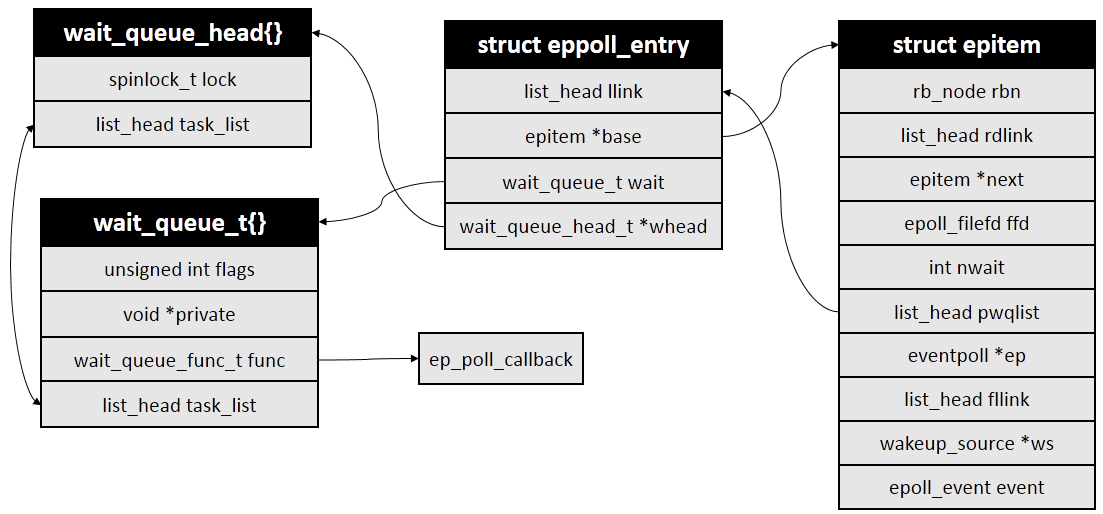
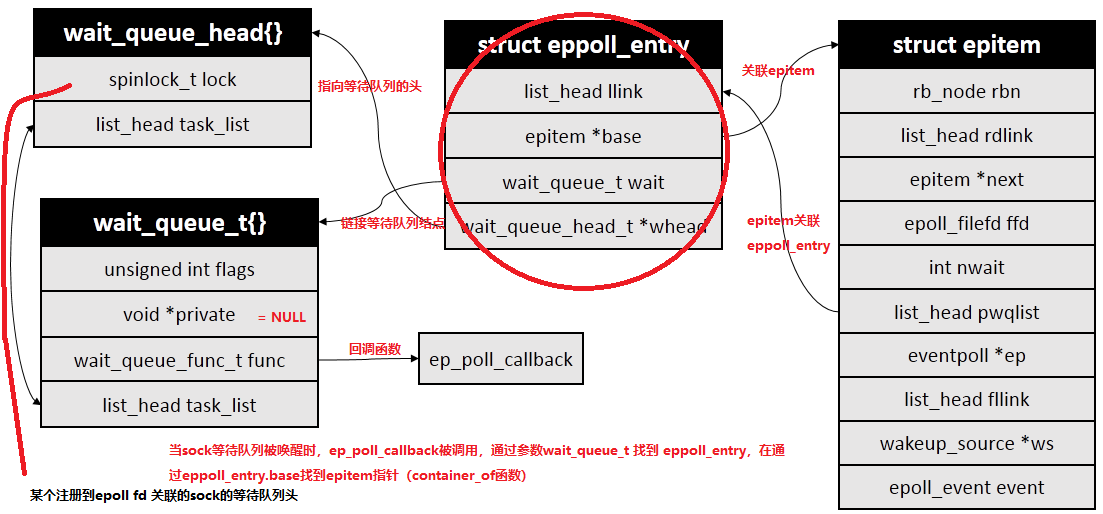
update epoll

diff --git a/_posts/2025-05-22-A-LINUX-KERNEL-TRAVEL-13.md b/_posts/2025-05-22-A-LINUX-KERNEL-TRAVEL-13.md
@@ -108,6 +108,16 @@ void epoll_server_run(){
 
 ![sock-relation]()
 
+`struct sock`结构关联的等待队列`socket_wq`，包含了内核等待队列的头节点：
+
+```CPP
+struct socket_wq {
+	/* Note: wait MUST be first field of socket_wq */
+	wait_queue_head_t	wait;
+	......
+};
+```
+
 ####    epoll的API
 1、`epoll_create`：创建一个 `epoll` 对象，返回fd
 
@@ -363,9 +373,11 @@ void sock_init_data(struct socket *sock, struct sock *sk)
 
 -	`struct epoll_filefd`：
 -   `struct epitem`：
--   `struct eppoll_entry`：
--	[`struct poll_table`](https://elixir.bootlin.com/linux/v4.11.6/source/include/linux/poll.h#L40)
--	[`ep_pqueue`](https://elixir.bootlin.com/linux/v4.11.6/source/fs/eventpoll.c#L248)
+-	[`ep_pqueue`](https://elixir.bootlin.com/linux/v4.11.6/source/fs/eventpoll.c#L248)：临时粘合剂，传递 `epitem` 并注册回调到 `poll_table`
+-	[`struct poll_table`](https://elixir.bootlin.com/linux/v4.11.6/source/include/linux/poll.h#L40)：标准化桥梁，触发文件操作并执行回调创建 `eppoll_entry`
+-   `struct eppoll_entry`：持久枢纽，绑定sock、sock等待队列与 `epitem`，实现事件驱动的高效通知
+
+其中，`ep_pqueue`、`poll_table`和`eppoll_entry`这三者完成了初始化 -> 注册 -> 持久监听的高效机制，非常优雅
 
 
 1、`epitem`，从其成员定义易知，这就是红黑树的元素节点
@@ -686,6 +698,8 @@ static void ep_ptable_queue_proc(struct file *file, wait_queue_head_t *whead,
 ```
 
 `ep_ptable_queue_proc`调用`init_waitqueue_func_entry`初始化一个等待队列项，等待队列项中仅仅只设置了回调函数 `q->func` 为 `ep_poll_callback`，其定义在[`ep_poll_callback`](https://elixir.bootlin.com/linux/v4.11.6/source/fs/eventpoll.c#L1004)
+
+![eppoll_entry-relation](https://raw.githubusercontent.com/pandaychen/pandaychen.github.io/refs/heads/master/blog_img/kernel/stack/epoll/epitem_relation_eppollentry.png)
 
 在内核软中断ksoftirqd将数据收到 socket 的接收队列后，内核会唤醒这个socket等待队列上的所有项，会通过注册的这个 `ep_poll_callback` 函数来回调（依次调用其注册的回调函数），进而通知到 `epoll` 对象
 
@@ -1038,7 +1052,7 @@ static void ep_ptable_queue_proc(struct file *file, wait_queue_head_t *whead, po
 	//新建一个eppoll_entry对象
     struct eppoll_entry *pwq;
     f (epi->nwait >= 0 && (pwq = kmem_cache_alloc(pwq_cache, GFP_KERNEL))) {
-		//初始化pwq回调方法
+		//初始化pwq（eppoll_entry对象）回调方法
 		init_waitqueue_func_entry(&pwq->wait, ep_poll_callback);
 		//将ep_poll_callback放入socket的等待队列whead（注意不是epoll的等待队列）
 		add_wait_queue(whead, &pwq->wait);
@@ -1132,6 +1146,8 @@ static void __wake_up_common(wait_queue_head_t *q, unsigned int mode,
         unsigned flags = curr->flags;
 
 		//curr->func 为 ep_poll_callback
+		// 注意ep_poll_callback的参数为
+		// wait_queue_t *wait, unsigned mode, int sync, void *key
         if (curr->func(curr, mode, wake_flags, key) &&
                 (flags & WQ_FLAG_EXCLUSIVE) && !--nr_exclusive)
             break;
@@ -1146,7 +1162,7 @@ static void __wake_up_common(wait_queue_head_t *q, unsigned int mode,
 `ep_poll_callback`的主要流程为：
 
 1.	把自己的 `epitem` 添加到 `epoll` 的就绪队列`rdllist`中
-2.	查看 eventpoll 对象上的等待队列里是否有等待项（`epoll_wait` 执行的时候会设置）
+2.	查看 `eventpoll` 对象上的等待队列里是否有等待项（`epoll_wait` 执行的时候会设置）
 3.	如果有等待项，那就查找到等待项里设置的回调函数
 
 ```CPP
@@ -1405,6 +1421,60 @@ check_events:
 
 ####    Why rbtree？
 
+
+####	`ep_pqueue`、`poll_table`与`eppoll_entry`结构的关系
+在介绍`ep_insert`的实现中，出现了三个数据结构`ep_pqueue`、`poll_table` 和 `eppoll_entry`（其中`ep_pqueue`包含了`poll_table`与`epitem`指针）这三者共同实现了高效的事件监听与回调机制。其中**ep_pqueue 是临时桥梁，用于向文件注册回调；poll_table 是标准接口，传递回调函数；eppoll_entry 是持久纽带，绑定文件等待队列与 epoll 监听项**
+
+这里再稍微回顾下`epoll_ctl(EPOLL_CTL_ADD)`的流程，当调用 `epoll_ctl(EPOLL_CTL_ADD)` 添加监听fd时
+
+**步骤1：初始化 `ep_pqueue` 与 `poll_table`**
+
+1、内核创建 `ep_pqueue` 对象，其成员 `epi` 指向当前监听的 `epitem`
+
+2、初始化 `ep_pqueue.pt`（即 `poll_table`），将其回调函数 `poll_table._qproc` 设为 `ep_ptable_queue_proc`
+
+```CPP
+struct ep_pqueue {
+    poll_table pt;          // 内含 _qproc 回调函数指针
+    struct epitem *epi;     // 指向监听的 epitem
+};
+init_poll_funcptr(&epq.pt, ep_ptable_queue_proc); // 关键初始化
+```
+
+**步骤2：触发文件操作，创建 `eppoll_entry`（关联`ep_item_poll()`）**
+
+1、调用目标文件（socket）的 `f_op->poll()` 方法（`tcp_poll()`），传入 `poll_table` 参数
+
+2、文件操作内部调用 `poll_table._qproc`（即 `ep_ptable_queue_proc`）
+
+3、`ep_ptable_queue_proc` 创建 `eppoll_entry` 对象并初始化
+
+```CPP
+struct eppoll_entry {
+    struct epitem *base;        // 指向 epitem（来自 ep_pqueue.epi）
+    wait_queue_entry_t wait;     // 等待队列项，回调函数设为 ep_poll_callback
+    wait_queue_head_t *whead;    // 指向文件的等待队列头
+};
+
+init_waitqueue_func_entry(&pwq->wait, ep_poll_callback); // 注册回调
+```
+
+4、将 `eppoll_entry.wait` 加入文件的等待队列（ socket 的 `sk_wq`）后，这里就返回了
+
+**步骤3：事件触发与回调，当文件事件（如数据到达）发生时**
+
+1、内核调用文件的等待队列回调函数 `ep_poll_callback`
+
+2、通过 `eppoll_entry.base` 找到 `epitem`，将其加入 `eventpoll` 的就绪队列（`rdllist`）
+
+3、唤醒阻塞在 `epoll_wait()` 的进程
+
+
+| 左对齐 | 功能 | 依赖 | 存在周期 |意义|
+| :-----| :---- | :---- |:---- |:---- |
+| `ep_pqueue` | 作为临时粘合的结构体，用于关联 `poll_table` 与 `epitem`，用于向sock注册回调函数 | 依赖 `epitem` 传递监听上下文 |仅在 `epoll_ctl(EPOLL_CTL_ADD)` 期间存在，临时结构 | 避免每次调用重复创建实体，仅作为注册回调的媒介，提升性能| 
+| `poll_table` | 作为标准轮询接口，封装回调函数指针（`_qproc`），由sock操作（`tcp_poll()`）调用 | 作为 `ep_pqueue` 的成员被初始化 |仅在 `epoll_ctl(EPOLL_CTL_ADD)` 期间存在，临时结构 | 提供通用接口，兼容不同文件操作（如 socket、pipe等），解耦 epoll 与具体设备|
+|`eppoll_entry`| 作为持久结构体，绑定sock等待队列与 `epitem`结构，事件发生时触发回调通知 epoll | 由 `ep_pqueue` 的回调函数创建 |存在直到该fd监听被从epoll中移除 | 通过 `wait` 成员长期驻留文件等待队列，实现一次注册+永久监听的高效模型，此外，它还双向链接到 `epitem.pwqlist`，便于监听移除时清理资源（调用 `ep_remove()` 时遍历删除）| 
 
 ##  0x0 参考
 -	[linux源码解读（十七）：红黑树在内核的应用——epoll](https://www.cnblogs.com/theseventhson/p/15829130.html)
